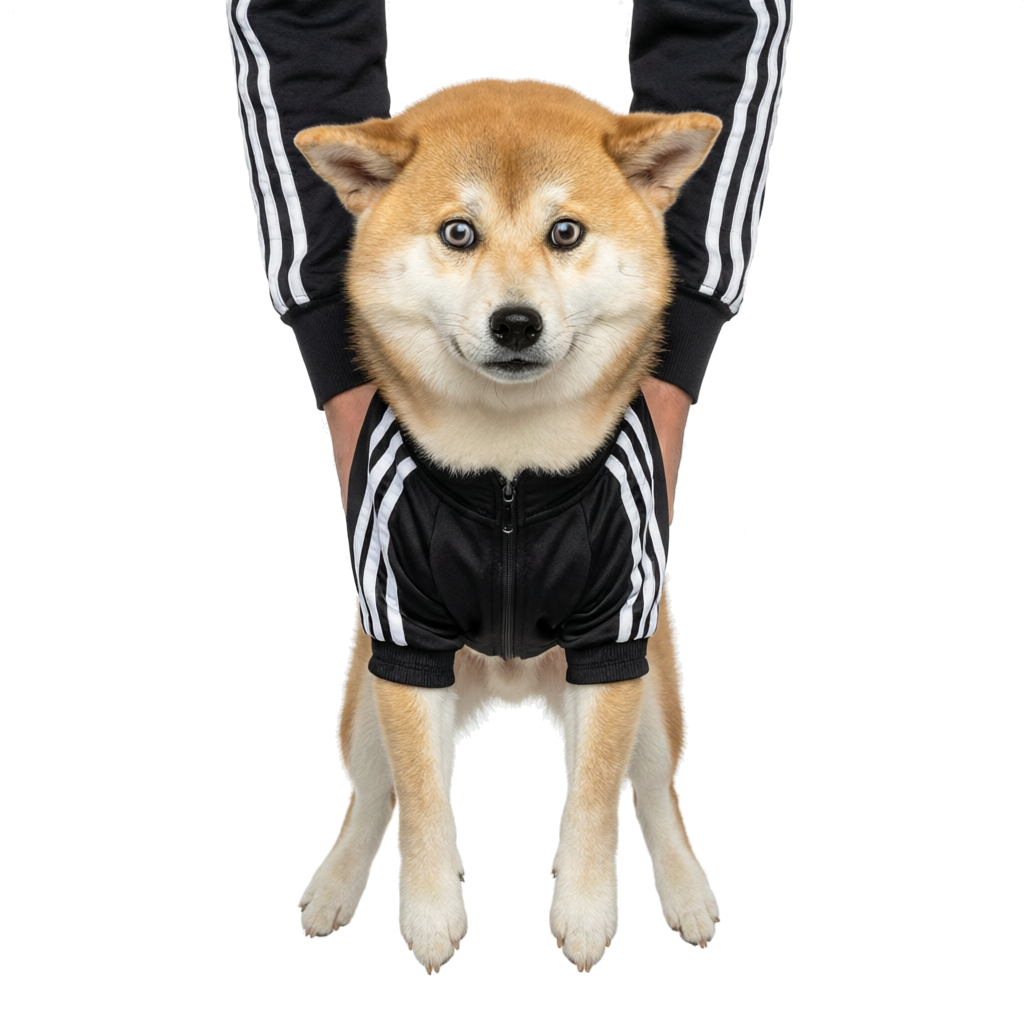
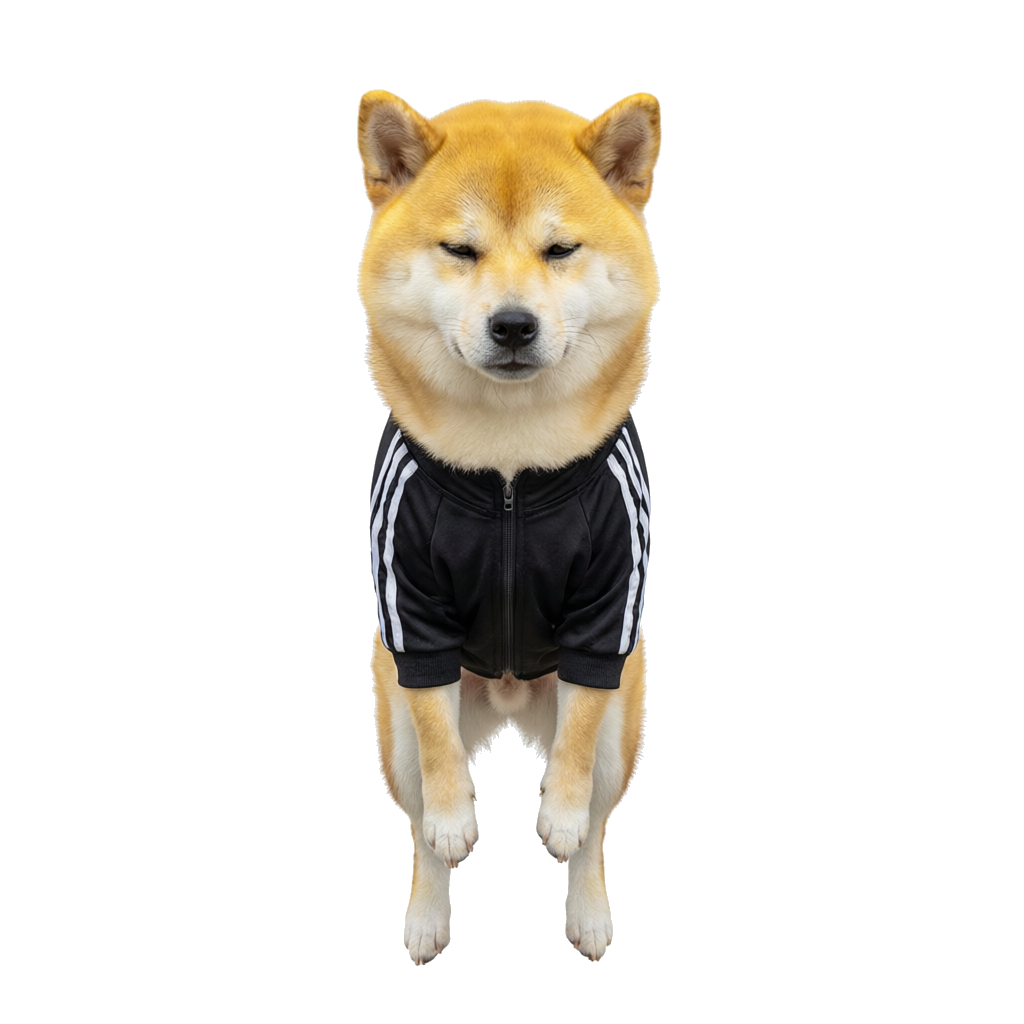
被拎起来改成淡定卡皮巴拉表情 + 新增「让他走走」按钮
- drag.png 重做：半眯眼淡定悬空，无人手入镜，符合 Winston 卡皮巴拉精神状态
- 托盘菜单和手机菜单都加了「让他走走 🚶」，随时叫他起来溜达

Changed region(s): [[0.2188, 0.0, 0.7812, 0.9688], [0.4688, 0.4688, 0.5, 0.5]]

diff --git a/main.js b/main.js
@@ -90,6 +90,13 @@ function createTray() {
       }
     },
     {
+      label: '让他走走 🚶',
+      click: () => {
+        win.show();
+        win.webContents.send('action', 'walk');
+      }
+    },
+    {
       label: '击掌 ✋',
       click: () => {
         win.show();

diff --git a/renderer.js b/renderer.js
@@ -734,6 +734,10 @@ if (isElectron) {
         enterState('bath');
         recordInteraction();
         break;
+      case 'walk':
+        enterState('walk');
+        recordInteraction();
+        break;
       case 'ball':
         busy = true;
         enterState('ball');
@@ -840,6 +844,7 @@ window.addEventListener('load', () => {
       <div id="fab-options">
         <button data-action="feed" title="喂零食">🦴</button>
         <button data-action="bath" title="洗澡澡">🛁</button>
+        <button data-action="walk" title="让他走走">🚶</button>
         <button data-action="ball" title="玩球球">🎾</button>
         <button data-action="highfive" title="击掌">✋</button>
         <button data-action="beg" title="讨要食物">🥺</button>
@@ -978,6 +983,8 @@ window.addEventListener('load', () => {
             busy = true; enterState('eat'); recordInteraction(); break;
           case 'bath':
             busy = true; enterState('bath'); recordInteraction(); break;
+          case 'walk':
+            enterState('walk'); recordInteraction(); break;
           case 'ball':
             busy = true; enterState('ball'); setMood('excited'); recordInteraction(); break;
           case 'highfive':